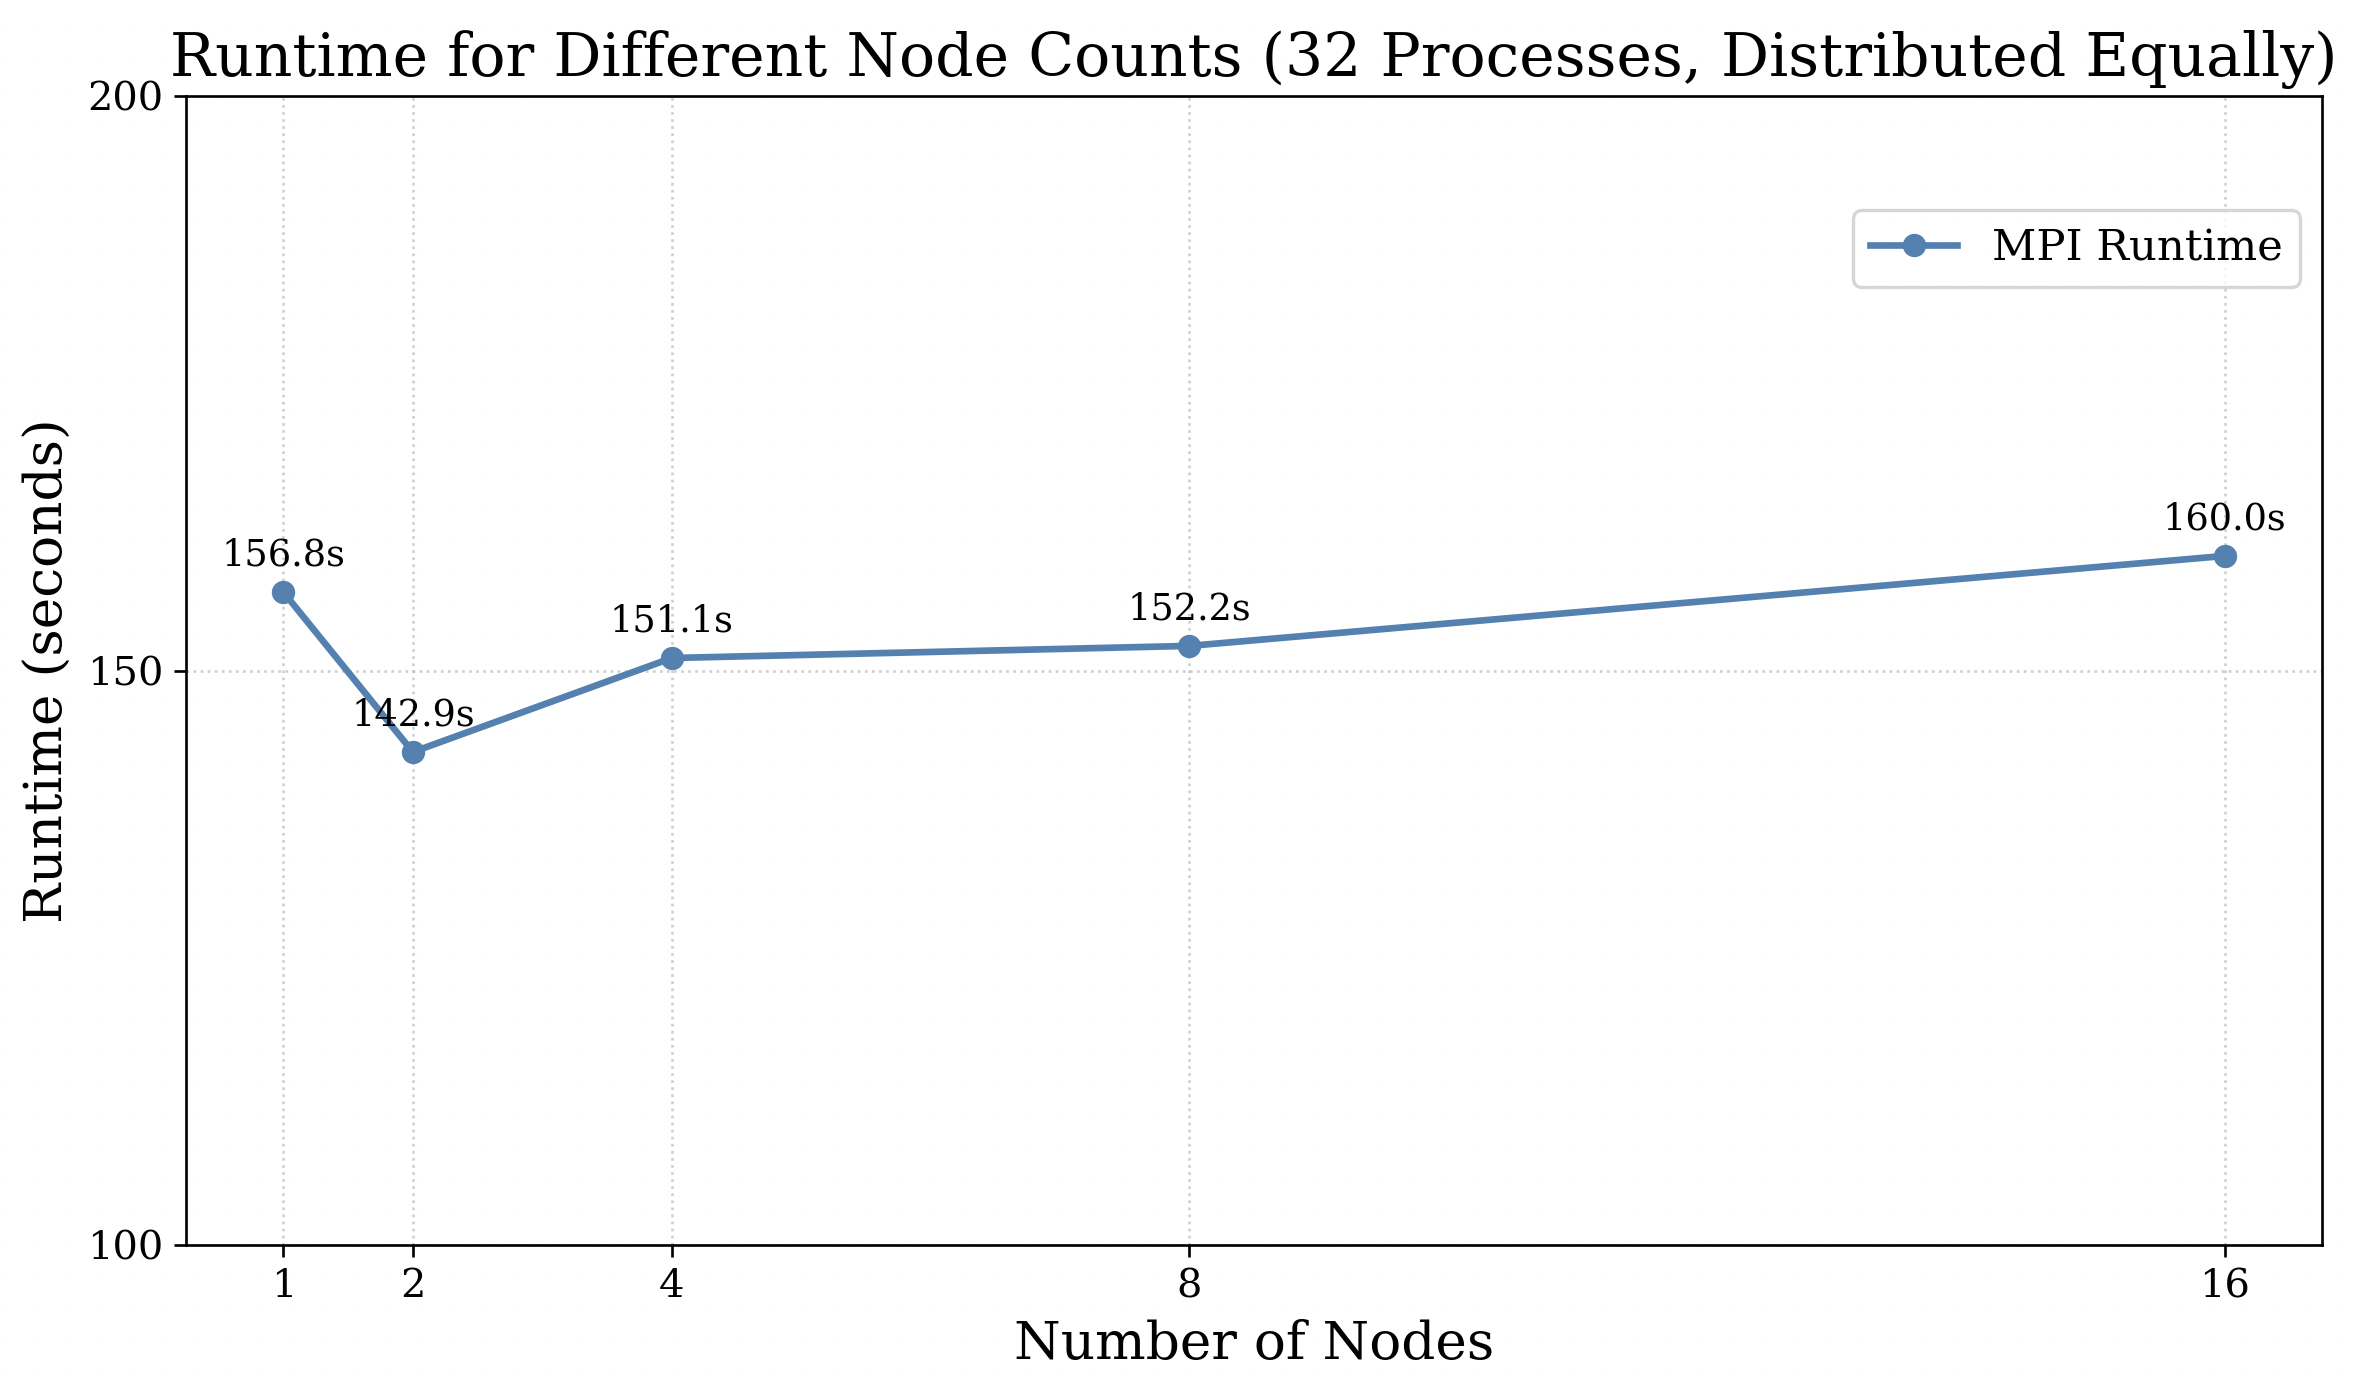
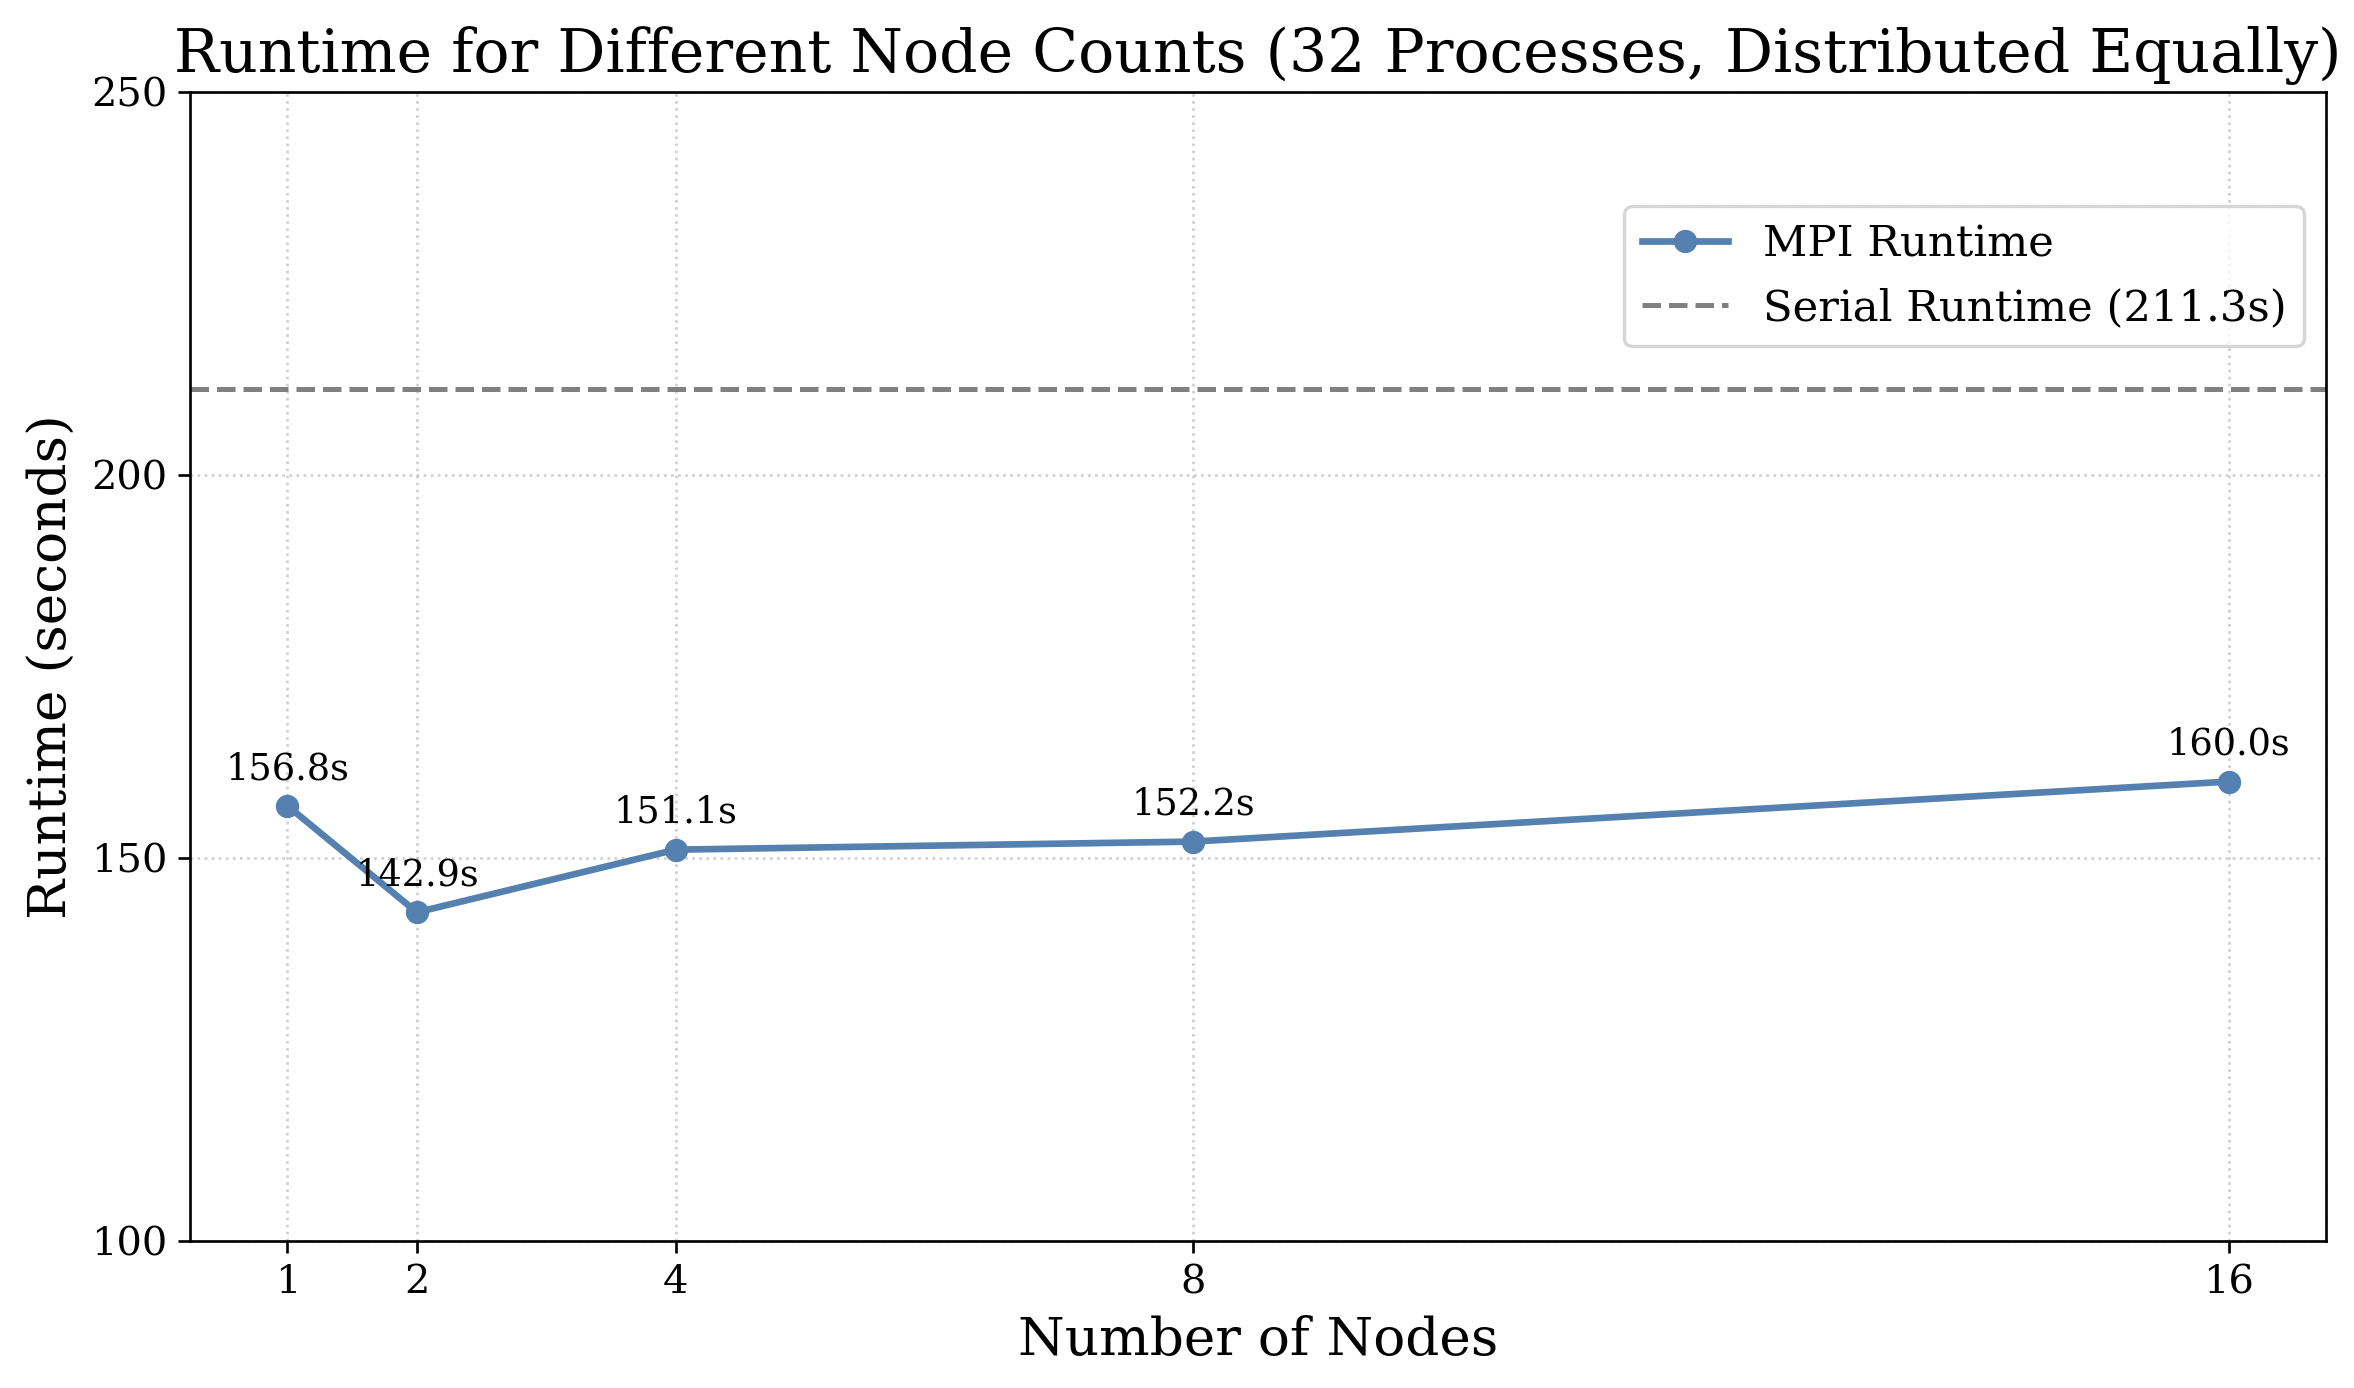
docs(a4,ex1): done with report

diff --git a/4_mpi/report-assignment-4.tex b/4_mpi/report-assignment-4.tex
@@ -193,12 +193,105 @@
 %
 
 \section*{Prefix}
-The code for our project can be found at this location: \url{https://github.com/paulmyr/DD2356-MethodsHPC/tree/master/4_mpi}.
+The code for our project can be found at this location: \url{https://github.com/paulmyr/DD2356-MethodsHPC/tree/master/4_mpi}. 
 
 \tableofcontents
 \newpage
 
 \section{1D Halo Exchange in a Wave Equation Simulation}
+\subsection{MPI Implementation}
+The MPI implementation can be found in the file \verb|halo_parallel.c| \href{https://github.com/paulmyr/DD2356-MethodsHPC/blob/master/4_mpi/ex1/halo_parallel.c}{here}. Our parallelization strategy using MPI involves three main components. 
+
+Firstl, we have the root process (with rank 0) initialize the entire \verb|u| and \verb|u_prev| variables, and then distribute them to the other processes (and to itself) using the \verb|MPI_Scatter| method. This can be seen in the \verb|initialize_and_distribute_data| function of the file \href{https://github.com/paulmyr/DD2356-MethodsHPC/blob/master/4_mpi/ex1/halo_parallel.c#L77}{here}. 
+
+Second, in the main computation loop, we perform the halo exchange using the \verb|Sendrecv| method. To be able to perform halo exchanges in a simple manner, we first create a 1D cartesian topology assigns each chunk of the array to a process using the \verb|MPI_Cart_create| method, where the dimensions are provided by the output of the \verb|MPI_Dims_create| method. This topology is used to get reliable information about the left and right neighbours of each process (using the \verb|MPI_Cart_shift| method) to perform the halo exchange with processes responsible for the neighbouring chunks. In each step of the loop, we perform the halo exchanges, followed by the main computation in \verb|compute_step| (found \href{https://github.com/paulmyr/DD2356-MethodsHPC/blob/master/4_mpi/ex1/halo_parallel.c#L14}{here}). 
+
+The \verb|compute_step| method has special cases for processes handling the first and last chunk. This is because the first element and the last element of \verb|u| in the serial implementation do not seem to be impacted by the effects of the computations (the loop populating \verb|u_next| only updates from index 1 to \verb|N-1|). We made a discussion post about this. On observing behaviour, it seems that \verb|u_next[0]| and \verb|u_next[N-1]| were assigned to 0 in the serial implementation, so we explicitly do that here (both in the serial code and in the parallel version to ensure parity). 
+
+Finally, to ensure validity of our results with the serial implementation, we print the current status of the grid at certain time-steps. To do this, we first introduce a \verb|MPI_Barrier| to ensure that all processes are at the same step in the computation. Then, we use \verb|MPI_Gather| to collect different chunks from the respective processes at the process with rank 0, which eventually prints the output to a file. \verb|MPI_Barrier| is also used at the end of the computation, to ensure that regardless of the print diagnostics (which are turned off when measuring runtime), the final state of the array \verb|u| is as expected. Then, the final output could be printed to a file if required. \textit{Note: When reporting runtime, we omit any I/O operations from occurring. However, the final} \verb|MPI_Barrier| \textit{ call is kept for correctness}. 
+
+\subsection{Correctness of Parallel Implementation}
+The output generated for $N = 6.4\text{ million}$ and $STEPS = 5000$ can be seen below for both the serial and parallel implementations. We plot at every 500th timestep, followed by a final plot after the computation loop. As can be seen visually from Figure \ref{fig:ex1_parallel_output} and \ref{fig:ex1_serial_output}, the outputs look identical. 
+
+\begin{figure}[h]
+     \centering
+     \begin{subfigure}[b]{0.45\textwidth}
+        \centering
+        \includegraphics[width=\linewidth]{img/ex1/wave_vis_parallel.png}
+        \caption{Parallel Output}
+        \label{fig:ex1_parallel_output}
+     \end{subfigure}
+     \hfill
+     \begin{subfigure}[b]{0.45\textwidth}
+        \centering
+        \includegraphics[width=\linewidth]{img/ex1/wave_vis_serial.png}
+        \caption{Serial Output}
+        \label{fig:ex1_serial_output}
+     \end{subfigure}
+  \caption{Parallel and Serial Outputs}
+\end{figure}
+
+To generate this plot, the following command can be run form under the \verb|ex1/| directory: 
+
+\begin{center}
+\verb|python3 visualize.py --mode {parallel/serial}|
+\end{center}
+
+To further ensure that the outputs were identical, a bash script was created: \verb|verify_outputs.sh|. This individually checks for diffs between the parallel and the serial implmenetation output, failing if the parallel and serial files for any timestamp are not identical. It can be found \href{https://github.com/paulmyr/DD2356-MethodsHPC/blob/master/4_mpi/ex1/verify_outputs.sh}{here} and is run using \verb|sh verify_outputs.sh| from under the \verb|ex1/| directory. 
+
+\subsection{Runtime Analysis}
+For this analysis, we used $N = 6.4\text{ million}$ and $STEPS = 5000$. The plots were generated with the python file \verb|plotting.py| in the \verb|ex1/| directory. The runtimes plotted below were obtained from the results in the \verb|outputs/runtimes| directory. 
+
+\subsubsection{Runtime for Different Process Counts}
+\label{sec:diff_process_counts}
+The runtime for different number of processes compared to the serial implementation can be seen in Figure \ref{fig:ex1_process_counts}. For this, we used the configuration in the \verb|run_sim_vary_process.sh| file (found \href{https://github.com/paulmyr/DD2356-MethodsHPC/blob/master/4_mpi/ex1/run_sim_vary_process.sh}{here}), where we allocated 1 node with 64 tasks per node and 1 cpu per task.
+
+\begin{figure}[H]
+  \centering
+  \includegraphics[width=0.9\textwidth]{img/ex1/serial_vs_mpi}
+  \caption{Serial vs MPI Comparison for Different Process Counts}
+  \label{fig:ex1_process_counts}
+\end{figure}
+As can be seen from the figure, after a worse runtime for 1 and 2 processes, the runtime for higher number of processes is lower compared to the serial runtime. We believe that the high runtime for 1 or 2 processes could be attributed to the fact that there is greater MPI related overhead compared to the benefits achieved from the limited parallelism offered by 1 or 2 processes.
+ 
+However, as the number of processes increase and the amount of work that needs to be done remains the same, we start to see the benefit of this work being done in parallel by multiple processes. The lowest runtime achieved seems to be from 16 processes, indicating that after this, the benfit of parallelism diminishes likely because of the greater MPI overhead (exchanging ghost cells between more processes, barrier at the end of computation waiting for more processes, etc). However, even after the slight increase, the runtime at 64 processes is considerably less than the serial, which shows the clear benefit of parallelism through MPI. 
+
+\subsubsection{Runtime for Different Node Counts}
+When chaning the number of nodes, we kept all other elements ($N$, $STEPS$, processes, etc) constant. We measured with a total of 32 processes, distributed equally amongst 1, 2, 4, 8, and 16 nodes. This means that when operating with 2 nodes, each node had 16 processes, when using 4 nodes, each node had 8 processes, and so on. For each node count (except for 1 node, where we already had the runtime from above), the respective job-file is titled \verb|run_sim_nodes_<count>.sh| in the code. 
+
+Given this setup, the runtime across different nodes compared to the serial implementation can be seen in Figure \ref{fig:ex1_node_counts}.
+\begin{figure}[H]
+  \centering
+  \includegraphics[width=0.9\textwidth]{img/ex1/diff_node_counts}
+  \caption{Serial vs MPI Comparison for Different Process Counts}
+  \label{fig:ex1_node_counts}
+\end{figure}
+
+As can be seen from the figure, the runtime across different node counts is considerably lower than the serial runtime on 1 node. This indicates that despite the possible network-overhead involved with communication over different nodes, the benefits of MPI parallelism compared to the serial version far outweigh the potential downsides. The lowest runtime seems to be across 2 nodes, and increases slightly as the number of nodes increase. This seems to be in-line with our expectations: distributing across 2 nodes might help in reducing the load on a single node while keeping inter-node network communication within a reasonable limit -- giving better runtimes. However, as the number of nodes increase, so does the inter-network communication overhead, which slightly decreases the efficiency. 
+
+However, we'd note that the trend doesn't seem to be as large as we had expected. To us, this might indicate that inter-network node communication might not be the leading factor contributing to the runtime of the MPI implementation. The blocking nature of \verb|Sendrecv|, which prevents us from overlapping computation with communication, and other optimizations can further be applied to improve the runtime even more across several nodes. 
+
+\subsubsection{Strong and Weak Scaling}
+The Strong-Scaling Test -- keeping the overall problem size constant while increasing the number of processes -- was already performed when varying the process counts. We present the graph again in Figure \ref{fig:ex1_strong_scaling} but refrain from repeating our analysis which can be found in Section \ref{sec:diff_process_counts}. 
+\begin{figure}[H]
+  \centering
+  \includegraphics[width=0.9\textwidth]{img/ex1/strong_scaling}
+  \caption{Strong Scaling}
+  \label{fig:ex1_strong_scaling}
+\end{figure}
+
+The Weak-Scaling Test -- where the problem size per process is the same as the number of processes increase -- was performed by fixing 100k elements of the global array per process and 5k iterations. The job-script for this test was \verb|run_sim_weak_scaling.sh|. Figure \ref{fig:ex1_weak_scaling} presents the runtime output. 
+\begin{figure}[H]
+  \centering
+  \includegraphics[width=0.9\textwidth]{img/ex1/weak_scaling}
+  \caption{Weak Scaling}
+  \label{fig:ex1_weak_scaling}
+\end{figure}
+The ideal scenario of a weak-scaling test to us would be similar runtimes as the number of processes (and thus the problem size) increases. This is because such a behaviour would indicate that larger problem sizes can be efficiently solved by increasing the number of resources (processes in our case) available to tackle them. Based on our understanding, the results we obtain largely adhere to the this ideal scenario.
+
+We see a sharp increase in the runtime on going from 1 process to 2 processes. This is within our expectations: as there is now communication and syncronization overhead involved with multiple processes in the picture. There is a noticeable decrease in the runtime on going from 4 to 8 processes, which to us is an excellent obseration -- as this would indicate that the implementation is scaling well: larger problem sizes can be solved even more quickly with larger processes available. The runtime then begins to increase slightly, reaching the range of 150s again as we go to 64 processes. 
+
+However, in all cases (except for the case with 1 sole process, the reasoning for which we gave above), the runtime remains similar as the problem size increases with the number of processes -- which was our expected ideal behaviour. At times, it seems to even perform better: decreasing with an increase in the number of processes and the problem size (like with 8 processes). 
 
 \section{Parallel Row Sum Computation using MPI Collectives}
 We started by running the code in the seqential version:

diff --git a/4_mpi/ex1/plotting.py b/4_mpi/ex1/plotting.py
@@ -78,12 +78,15 @@ def plot_weak_scaling():
 def plot_diff_node_counts():
     ax.plot(node_counts, node_counts_runtime, marker='o', linestyle='-', linewidth=2,
             color='steelblue', label="MPI Runtime")
+    
+    ax.axhline(strong_serial_runtime, color='gray', linestyle='--', linewidth=1.5,
+            label=f'Serial Runtime ({strong_serial_runtime:.1f}s)')
 
     ax.set_title("Runtime for Different Node Counts (32 Processes, Distributed Equally)")
     ax.set_xlabel("Number of Nodes")
     ax.set_ylabel("Runtime (seconds)")
 
-    ax.set_yticks(range(100, 250, 50))
+    ax.set_yticks(range(100, 300, 50))
     ax.set_xticks(node_counts)
     ax.get_xaxis().set_major_formatter(ScalarFormatter())
     ax.grid(True, which='major', linestyle=':', linewidth=0.8, alpha=0.6)
